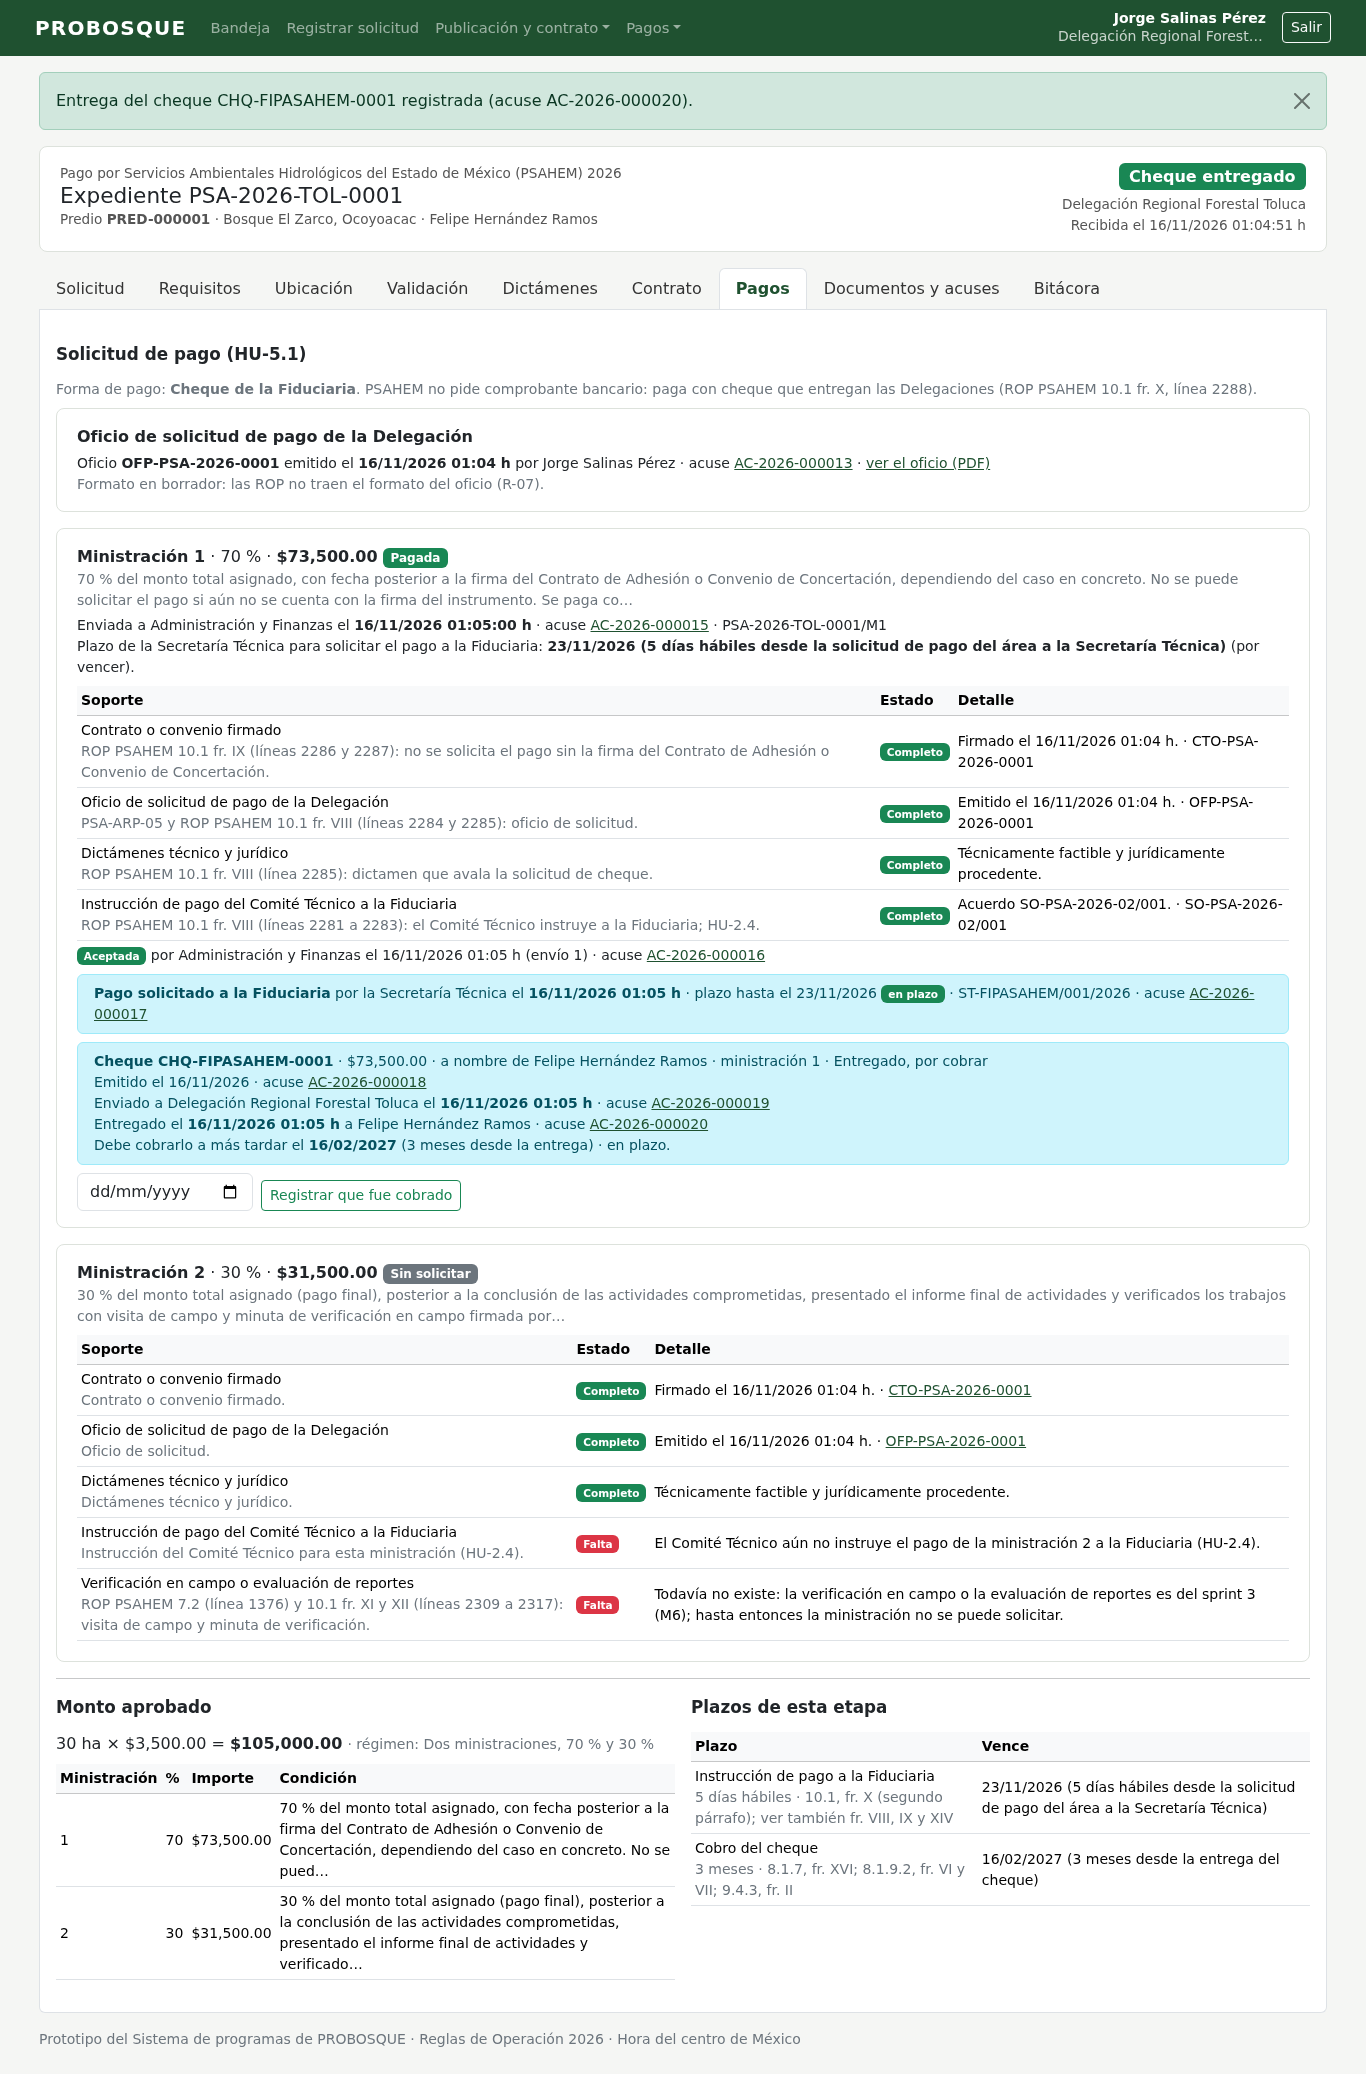
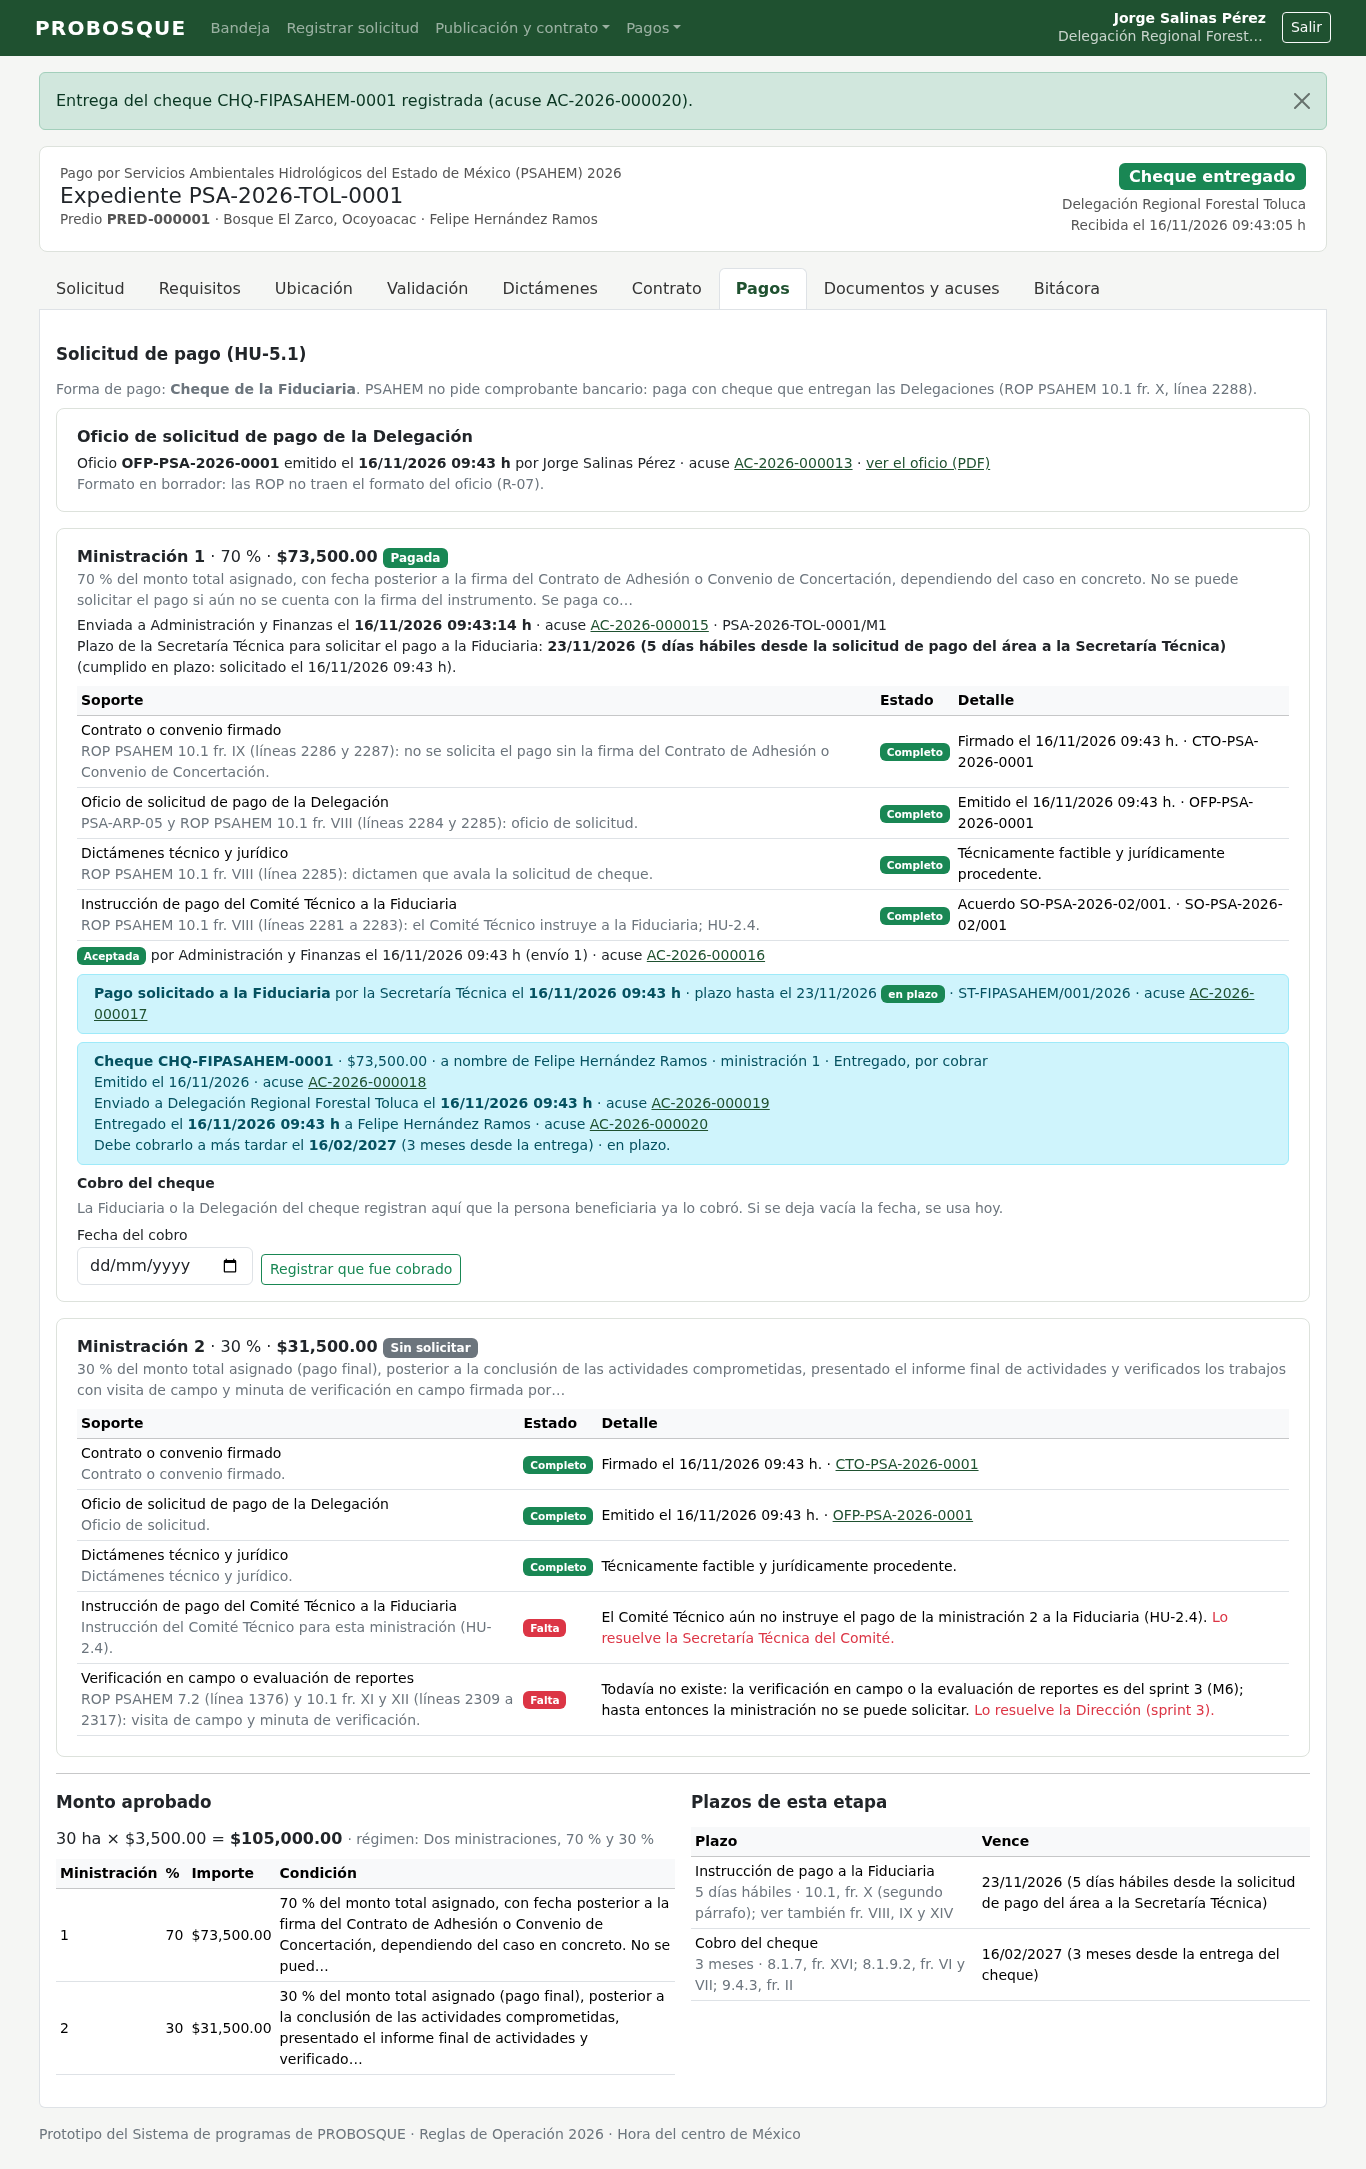
Ajustes P-23 a P-31: tropiezos de interfaz del recorrido del sprint 2

diff --git a/sistema/pagos/templates/pagos/solicitudes/_pestana.html b/sistema/pagos/templates/pagos/solicitudes/_pestana.html
@@ -43,14 +43,15 @@
   </div>
   {% if m.solicitud and m.solicitud.enviada_en %}
   <div class="small mt-1" data-prueba="envio-solicitud">Enviada a Administración y Finanzas el <strong data-prueba="fecha-envio">{{ m.solicitud.enviada_en|date:"d/m/Y H:i:s" }} h</strong>{% if m.solicitud.envios > 1 %} (envío {{ m.solicitud.envios }}){% endif %}{% if m.solicitud.acuse_envio %} · acuse <a href="{% url 'nucleo:acuse' m.solicitud.acuse_envio.folio %}" target="_blank">{{ m.solicitud.acuse_envio.folio }}</a>{% endif %} · {{ m.solicitud.folio }}</div>
-  {% if m.plazo_remision %}<div class="small" data-prueba="plazo-remision">Plazo de la Secretaría Técnica para solicitar el pago a la Fiduciaria: <strong>{{ m.plazo_remision.texto }}</strong> ({{ m.plazo_remision.estado }}).</div>{% endif %}
+  {% if m.plazo_remision %}<div class="small" data-prueba="plazo-remision">Plazo de la Secretaría Técnica para solicitar el pago a la Fiduciaria: <strong>{{ m.plazo_remision.texto }}</strong>
+    {% if m.remision %}(<span data-prueba="plazo-remision-resultado">{% if m.remision.en_plazo %}cumplido en plazo{% else %}cumplido fuera de plazo{% endif %}: solicitado el {{ m.remision.remitida_en|date:"d/m/Y H:i" }} h</span>){% else %}({{ m.plazo_remision.estado }}){% endif %}.</div>{% endif %}
   {% endif %}
   <table class="table table-sm small mt-2 mb-1" data-prueba="soportes-m{{ m.numero }}">
     <thead class="table-light"><tr><th>Soporte</th><th>Estado</th><th>Detalle</th></tr></thead>
     <tbody>{% for s in m.soportes %}
       <tr data-soporte="{{ s.clave }}"><td>{{ s.nombre }}<div class="text-secondary">{{ s.fundamento|truncatechars:150 }}</div></td>
         <td>{% if s.cumple %}<span class="badge text-bg-success">Completo</span>{% else %}<span class="badge text-bg-danger">Falta</span>{% endif %}</td>
-        <td>{{ s.detalle }}{% if s.referencia %} · {% if s.url %}<a href="{{ s.url }}" target="_blank">{{ s.referencia }}</a>{% else %}{{ s.referencia }}{% endif %}{% endif %}</td></tr>
+        <td>{{ s.detalle }}{% if not s.cumple %} <span class="text-danger" data-prueba="responsable-soporte">Lo resuelve {{ s.responsable }}.</span>{% endif %}{% if s.referencia %} · {% if s.url %}<a href="{{ s.url }}" target="_blank">{{ s.referencia }}</a>{% else %}{{ s.referencia }}{% endif %}{% endif %}</td></tr>
     {% endfor %}</tbody>
   </table>
   {% if m.solicitud and m.solicitud.estado == 'devuelta' %}<div class="alert alert-danger small py-1 mb-2" data-prueba="solicitud-devuelta">Devuelta por Administración y Finanzas: corrija y reenvíe.</div>{% endif %}
@@ -59,10 +60,8 @@
       <input class="form-control form-control-sm w-auto flex-grow-1" name="observaciones" placeholder="Observaciones (opcional)" aria-label="Observaciones">
       <button class="btn btn-sm btn-primary" type="submit">Enviar la solicitud a Administración y Finanzas</button></form>
     {% if not m.solicitud %}<form method="post" action="{% url 'pagos:solicitud_preparar' exp.folio m.numero %}" class="mt-1">{% csrf_token %}<button class="btn btn-sm btn-outline-secondary" type="submit">Dejarla por enviar</button></form>{% endif %}
-    {% if m.faltan %}<div class="small text-danger mt-1" data-prueba="faltan-soportes-m{{ m.numero }}">No se puede enviar: falta {% for s in m.faltan %}{{ s.nombre|lower }}{% if not forloop.last %}; {% endif %}{% endfor %}.</div>{% endif %}
   {% elif not m.enviada and m.motivo %}
     <div class="small text-secondary" data-prueba="motivo-sin-solicitar">{{ m.motivo }}</div>
-    {% if m.faltan and m.numero > 1 %}<div class="small text-danger" data-prueba="faltan-soportes-m{{ m.numero }}">Faltan soportes: {% for s in m.faltan %}{{ s.nombre|lower }}{% if not forloop.last %}; {% endif %}{% endfor %}.</div>{% endif %}
   {% endif %}
   {% include "pagos/pagos/_en_ministracion.html" %}
   {% include "pagos/cheques/_en_ministracion.html" %}

diff --git a/sistema/pagos/templates/pagos/cheques/_en_ministracion.html b/sistema/pagos/templates/pagos/cheques/_en_ministracion.html
@@ -15,8 +15,12 @@
     <div class="col-12 col-md-6">{% include "recepcion/_campo.html" with campo=m.form_entrega.entregado_en %}</div></div>
   <button class="btn btn-sm btn-primary" type="submit">Registrar la entrega</button></form>{% endif %}
 {% if m.puede_cobrar %}
-<form method="post" action="{% url 'pagos:cheque_cobro' c.pk %}" class="mt-2 d-flex gap-2 align-items-end" data-prueba="form-cobro-m{{ m.numero }}">{% csrf_token %}
-  <div>{{ m.form_cobro.fecha_cobro }}</div><button class="btn btn-sm btn-outline-success" type="submit">Registrar que fue cobrado</button></form>{% endif %}
+<form method="post" action="{% url 'pagos:cheque_cobro' c.pk %}" class="mt-2" data-prueba="form-cobro-m{{ m.numero }}">{% csrf_token %}
+  <div class="small fw-semibold mb-1">Cobro del cheque</div>
+  <div class="small text-secondary mb-1">La Fiduciaria o la Delegación del cheque registran aquí que la persona beneficiaria ya lo cobró. Si se deja vacía la fecha, se usa hoy.</div>
+  <div class="d-flex flex-wrap gap-2 align-items-end">
+    <div><label class="form-label small mb-0" for="{{ m.form_cobro.fecha_cobro.id_for_label }}">{{ m.form_cobro.fecha_cobro.label }}</label>{{ m.form_cobro.fecha_cobro }}</div>
+    <button class="btn btn-sm btn-outline-success" type="submit">Registrar que fue cobrado</button></div></form>{% endif %}
 {% endwith %}{% elif m.puede_emitir %}
 <form method="post" action="{% url 'pagos:cheque_emitir' m.solicitud.pk %}" class="mt-2" data-prueba="form-emision-m{{ m.numero }}">{% csrf_token %}
   <div class="titulo-seccion mb-1">Emitir el cheque de la ministración {{ m.numero }}</div>

diff --git a/sistema/contrato/templates/contrato/publicacion/_filas_notificaciones.html b/sistema/contrato/templates/contrato/publicacion/_filas_notificaciones.html
@@ -4,7 +4,7 @@
   <thead class="table-light"><tr><th>Solicitud</th><th>Aviso</th><th>Envío a la Delegación</th><th>Notificación a la persona</th><th>Plazo</th></tr></thead>
   <tbody>
   {% for f in filas %}{% with n=f.n %}
-  <tr data-notificacion="{{ n.pk }}" data-tipo="{{ n.tipo }}">
+  <tr id="notificacion-{{ n.pk }}" data-notificacion="{{ n.pk }}" data-tipo="{{ n.tipo }}"{% if f.abierta %} class="table-warning"{% endif %}>
     <td class="text-nowrap"><a href="{% url 'recepcion:expediente' n.expediente.folio %}?pestana=contrato">{{ n.expediente.folio }}</a>
       <div class="text-secondary">{{ n.expediente.predio.nombre }} · {{ n.expediente.predio.municipio.nombre }}</div></td>
     <td><strong>{{ n.get_tipo_display }}</strong><div class="text-secondary">{{ n.asunto }}</div>
@@ -16,7 +16,7 @@
       <div class="text-secondary">{{ n.get_medio_display }}{% if n.notificada_por %} · {{ n.notificada_por.get_full_name|default:n.notificada_por.username }}{% endif %}</div>
       {% if n.acuse_notificacion %}<a href="{% url 'nucleo:acuse' n.acuse_notificacion.folio %}" target="_blank">{{ n.acuse_notificacion.folio }}</a>{% endif %}
       {% elif f.puede_entregar %}
-      <details>
+      <details{% if f.abierta %} open{% endif %}>
         <summary class="btn btn-sm btn-outline-primary">Registrar entrega</summary>
         <form method="post" action="{% url 'contrato:notificacion_entregar' n.pk %}" class="mt-2" style="min-width: 15rem">
           {% csrf_token %}<input type="hidden" name="volver" value="{{ volver }}">

diff --git a/sistema/contrato/templates/contrato/publicacion/publica_programa.html b/sistema/contrato/templates/contrato/publicacion/publica_programa.html
@@ -4,7 +4,7 @@
 <div class="mb-3">
   <div class="small"><a href="{% url 'contrato:resultados' %}">Todos los programas</a></div>
   <h1 class="h4 mb-1">Resultados · {{ ejercicio.programa.nombre }} {{ ejercicio.anio }}</h1>
-  <div class="text-secondary small">{% for p in publicaciones %}Publicados el {{ p.publicada_en|date:"d/m/Y" }} a las {{ p.publicada_en|date:"H:i" }} h (sesión {{ p.sesion.numero }}){% if not forloop.last %}; {% endif %}{% endfor %}.
+  <div class="text-secondary small">{% for p in publicaciones %}Publicados el {{ p.publicada_en|date:"d/m/Y" }} a las {{ p.publicada_en|date:"H:i" }} h (el Comité aprobó los listados en su sesión del {{ p.sesion.fecha_hora|date:"d/m/Y" }}){% if not forloop.last %}; {% endif %}{% endfor %}.
     Se muestran el folio, el predio, el municipio y el resultado; el nombre solo aparece en el listado de personas beneficiarias.</div>
 </div>
 <form method="get" class="tarjeta mb-3 d-flex flex-wrap gap-2 align-items-end" role="search">

diff --git a/sistema/contrato/templates/contrato/planta/emitir.html b/sistema/contrato/templates/contrato/planta/emitir.html
@@ -1,10 +1,10 @@
 {% extends "base.html" %}
-{% block titulo %}Vale de Planta {{ exp.folio }}{% endblock %}
+{% block titulo %}Vale de Salida de Planta {{ exp.folio }}{% endblock %}
 {% block contenido %}
 <div class="d-flex flex-wrap justify-content-between align-items-end gap-2 mb-3">
   <div>
     <div class="small text-secondary">{{ exp.ejercicio.programa.nombre }} {{ exp.ejercicio.anio }} · {{ unidad_actual.nombre }}</div>
-    <h1 class="h4 mb-0">{% if reposicion %}Reponer{% else %}Entregar{% endif %} el Vale de Planta del expediente {{ exp.folio }}</h1>
+    <h1 class="h4 mb-0">{% if reposicion %}Reponer{% else %}Entregar{% endif %} el Vale de Salida de Planta (Vale de Planta) del expediente {{ exp.folio }}</h1>
     <div class="small">{{ exp.predio.nombre }}, {{ exp.predio.municipio.nombre }} · {{ exp.solicitante.nombre }} · {{ exp.modalidad.nombre|default:"—" }}</div>
   </div>
   <a class="btn btn-outline-secondary btn-sm" href="{{ destino }}">Ver expediente</a>

diff --git a/sistema/contrato/templates/contrato/publicacion/_panel_notificar.html b/sistema/contrato/templates/contrato/publicacion/_panel_notificar.html
@@ -2,7 +2,7 @@
   <div class="titulo-seccion">Notificaciones por entregar a las personas ({{ panel.total }})</div>
   <div class="small mb-2">Avisos que la Delegación debe entregar; al registrar cada entrega queda su fecha, hora, medio y acuse.</div>
   <ul class="small mb-2">{% for n in panel.notificaciones %}
-    <li><a href="{% url 'recepcion:expediente' n.expediente.folio %}?pestana=contrato">{{ n.expediente.folio }}</a> · {{ n.get_tipo_display }} · enviada el {{ n.enviada_en|date:"d/m/Y H:i" }}</li>
+    <li><a href="{% url 'contrato:notificaciones' %}?ver=pendientes&aviso={{ n.pk }}#notificacion-{{ n.pk }}" data-prueba="registrar-entrega">{{ n.expediente.folio }}</a> · {{ n.get_tipo_display }} · enviada el {{ n.enviada_en|date:"d/m/Y H:i" }}</li>
   {% endfor %}</ul>
   <a class="btn btn-sm btn-outline-primary" href="{% url 'contrato:notificaciones' %}">Abrir la bandeja de notificaciones</a>
 </div>

diff --git a/sistema/contrato/templates/contrato/planta/vale.html b/sistema/contrato/templates/contrato/planta/vale.html
@@ -4,7 +4,7 @@
 <div class="d-flex flex-wrap justify-content-between align-items-end gap-2 mb-3">
   <div>
     <div class="small text-secondary">{{ exp.ejercicio.programa.nombre }} {{ exp.ejercicio.anio }} · {{ unidad_actual.nombre }}</div>
-    <h1 class="h4 mb-0">Vale de Planta {{ vale.folio }} {% include "contrato/planta/_situacion.html" %}</h1>
+    <h1 class="h4 mb-0">Vale de Salida de Planta {{ vale.folio }} {% include "contrato/planta/_situacion.html" %}</h1>
     <div class="small">{{ exp.folio }} · {{ exp.predio.nombre }}, {{ exp.predio.municipio.nombre }} · {{ exp.solicitante.nombre }}</div>
   </div>
   <div class="d-flex gap-2">

diff --git a/sistema/contrato/templates/contrato/planta/vivero.html b/sistema/contrato/templates/contrato/planta/vivero.html
@@ -3,7 +3,7 @@
 {% block contenido %}
 <div class="mb-3">
   <h1 class="h4 mb-0">Salida de planta</h1>
-  <div class="small text-secondary">Valide el Vale de Planta antes de entregar la planta: solo es válido un vale vigente, y solo por la especie y la cantidad autorizadas.</div>
+  <div class="small text-secondary">Valide el Vale de Salida de Planta (Vale de Planta) antes de entregar la planta: solo es válido un vale vigente, y solo por la especie y la cantidad autorizadas.</div>
 </div>
 <div class="tarjeta mb-3">
   <form method="get" class="d-flex flex-wrap gap-2 align-items-end" id="form-validar">

diff --git a/sistema/contrato/templates/contrato/planta/vale_pdf.html b/sistema/contrato/templates/contrato/planta/vale_pdf.html
@@ -25,7 +25,7 @@
   <div class="encabezado">
     <div class="folio">Folio<strong>{{ vale.folio }}</strong>{{ fecha|date:"d/m/Y H:i" }} h</div>
     <div class="org">PROTECTORA DE BOSQUES DEL ESTADO DE MÉXICO · PROBOSQUE</div>
-    <h1>Vale de Planta</h1>
+    <h1>Vale de Salida de Planta</h1>
   </div>
   <div class="vigencia">{% if vale.vence_el %}Vigente hasta el <strong>{{ vale.vence_el|date:"d/m/Y" }}</strong>{% else %}Sin fecha de vigencia en las reglas{% endif %}<br><span style="font-size:8.5pt">{{ plazo_texto }}</span></div>
   <table class="datos">

diff --git a/sistema/recepcion/templates/recepcion/pestanas/bitacora.html b/sistema/recepcion/templates/recepcion/pestanas/bitacora.html
@@ -1,4 +1,5 @@
 <div class="titulo-seccion">Bitácora del expediente</div>
+<div class="small text-secondary mb-2" data-prueba="orden-bitacora">Orden cronológico: lo más antiguo arriba. Si dos renglones caen en el mismo segundo, va primero el que se registró antes.</div>
 <div class="table-responsive">
 <table class="table table-sm" id="tabla-bitacora">
   <thead class="table-light"><tr><th>Fecha y hora</th><th>Quién</th><th>Qué</th><th>Estado</th><th>Acuse</th></tr></thead>

diff --git a/sistema/plantillas/base.html b/sistema/plantillas/base.html
@@ -47,6 +47,8 @@
         </form>
       </div>
     </div>
+    {% elif request.resolver_match.url_name != 'entrar' %}
+    <a class="btn btn-sm btn-outline-light ms-auto" href="{% url 'nucleo:entrar' %}" data-prueba="enlace-entrar">Iniciar sesión</a>
     {% endif %}
   </div>
 </nav>

diff --git a/sistema/contrato/templates/contrato/publicacion/publica_indice.html b/sistema/contrato/templates/contrato/publicacion/publica_indice.html
@@ -18,5 +18,4 @@
   <div class="text-secondary">Todavía no se publican resultados.</div>
   {% endfor %}
 </div>
-<div class="mt-3"><a href="{% url 'nucleo:entrar' %}">Iniciar sesión (personal de PROBOSQUE)</a></div>
 {% endblock %}
